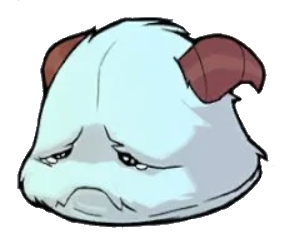
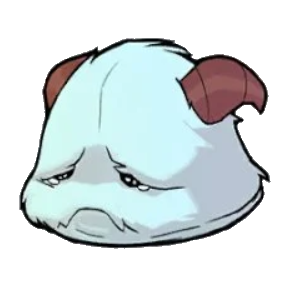
Moved sad poro emote to the begging, fixed sad poro image size

Changed region(s): [[0.0848, 0.0565, 0.9611, 0.7056], [0.0565, 0.5645, 0.9611, 0.9315], [0.6784, 0.5081, 0.7067, 0.5363]]

diff --git a/index.html b/index.html
@@ -26,6 +26,17 @@
 			<div class="row">
 				<div class="col-lg-4 col-md-6 col-sm-6">
 					<div>
+						<img src="assets/emotes/sad_poro_emote.png" alt="" style="width: 12em;">
+						<h3>Sad Poro Emote</h3>
+						<p>Bad luck.</p>
+						<h4>Usage:</h4>
+						<p>
+							Your Bannerman didn't hit Allegiance when you only have 1 deny in your deck.
+						</p>
+					</div>
+				</div>
+				<div class="col-lg-4 col-md-6 col-sm-6">
+					<div>
 						<img src="assets/emotes/shen_emote_green.png" alt="shen emote" style="width: 12em;">
 						<h3>Shen Emote</h3>
 						<p>gg wp</p>
@@ -38,21 +49,10 @@
 					</div>
 				</div>
 				<div class="col-lg-4 col-md-6 col-sm-6">
-					<div class="services-item">
+					<div>
 						<img src="assets/emotes/heimer_emote.png" alt="" style="width: 12em;">
 						<h3>Heimer Emote</h3>
 						<p>You're taking to long to play.</p>
-					</div>
-				</div>
-				<div class="col-lg-4 col-md-6 col-sm-6">
-					<div class="services-item">
-						<img src="assets/emotes/sad_poro_emote.png" alt="" style="width: 12em;">
-						<h3>Sad Poro Emote</h3>
-						<p>Bad luck, no counterplay in hand.</p>
-						<h4>Usage:</h4>
-						<p>
-
-						</p>
 					</div>
 				</div>
 			</div>
